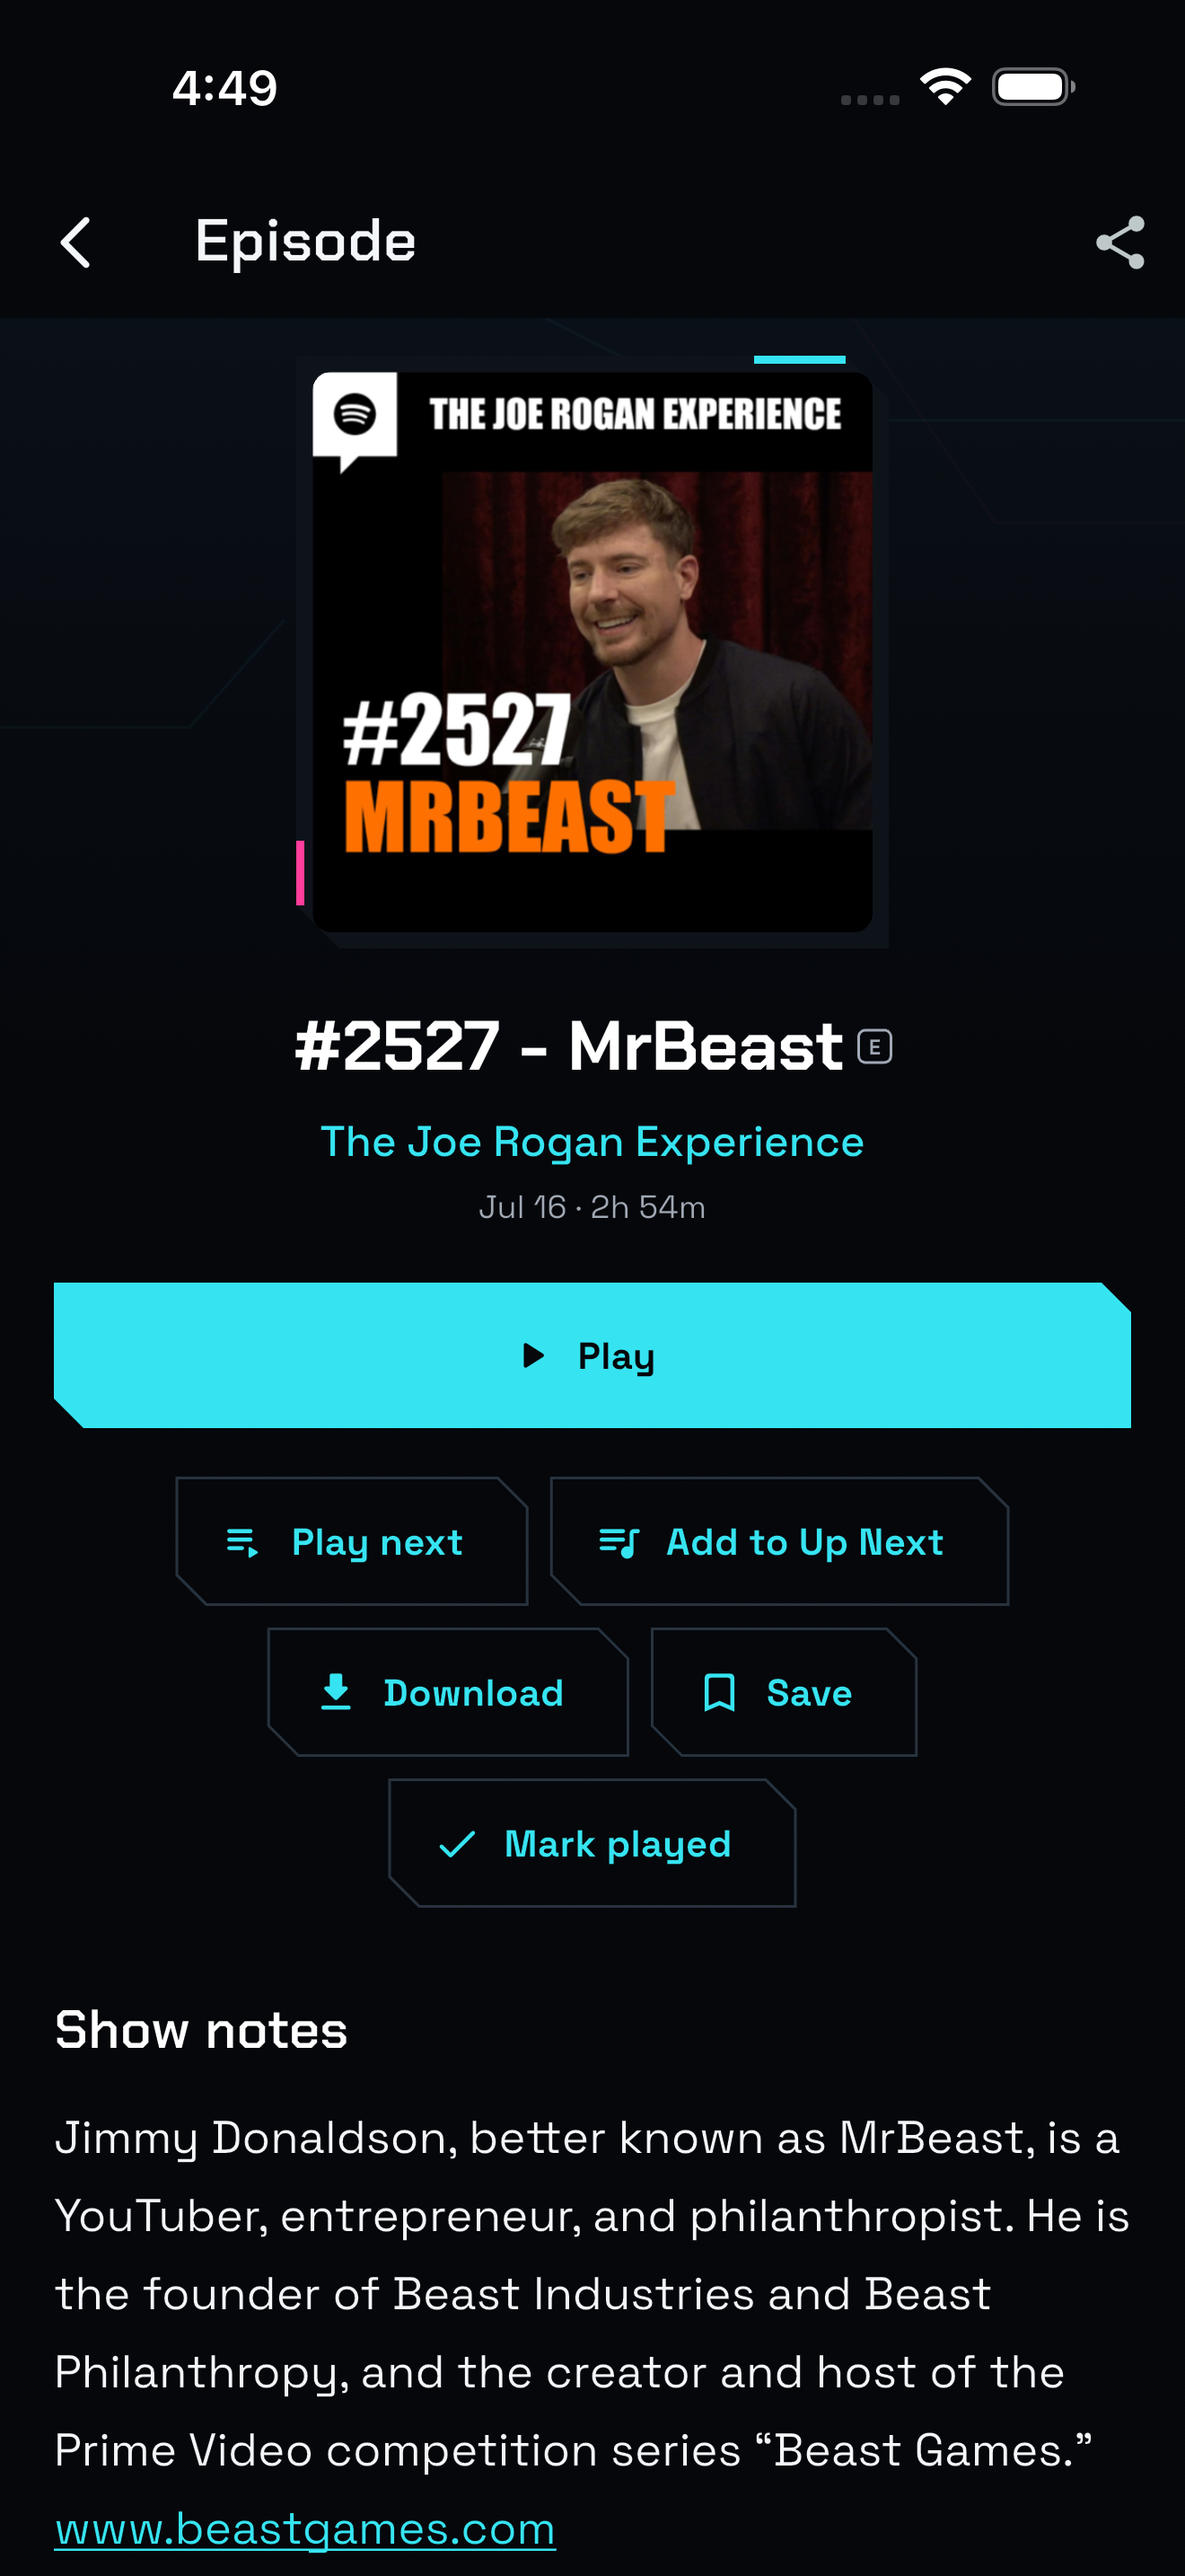
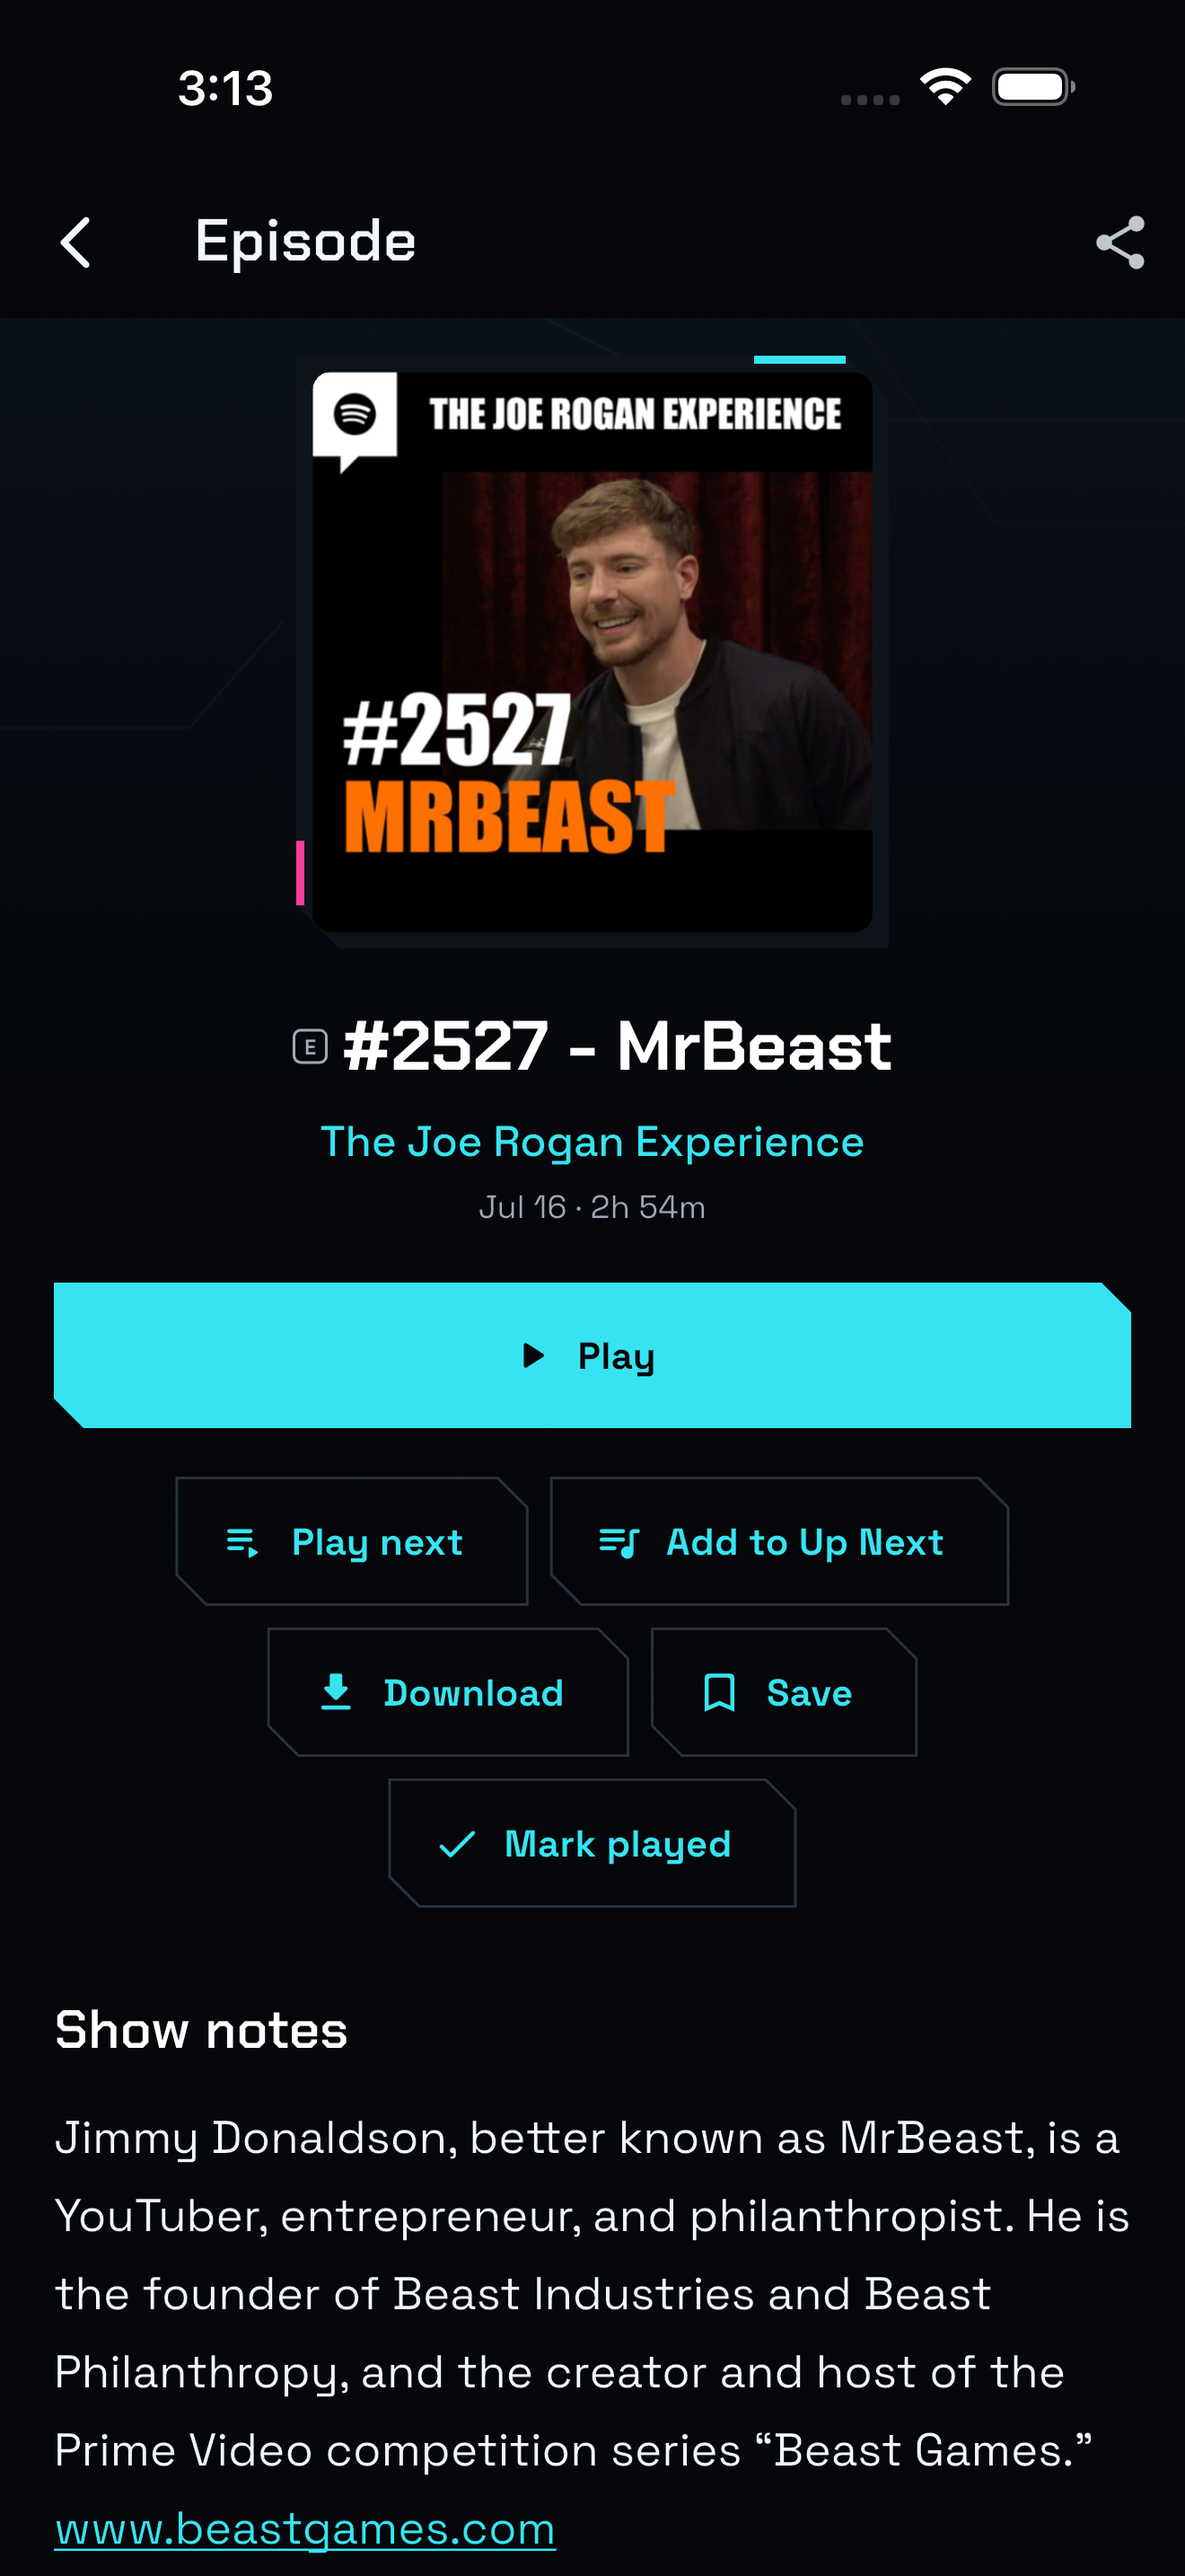
chore: prepare build 38

Changed region(s): [[0.2485, 0.3724, 0.7455, 0.4344], [0.1553, 0.031, 0.2174, 0.0621]]

diff --git a/README.md b/README.md
@@ -26,7 +26,7 @@ Desktop, web, CarPlay, Android Auto, and Android Automotive are intentionally ou
 
 ## Interface
 
-The home flow starts with a horizontally scrolling two-row shelf of recent episodes with direct Play and Resume controls, followed by compact collection shortcuts, subscriptions, feed actions, and unread entries. Four-button collections divide the available width evenly, with longer labels wrapping inside their cell. Section-level See all actions open the complete library or reader destination. Episodes distinguish New, In Progress, and Played at a glance. Shortcut badges always count the items in their destination: Podcasts and Sources count subscriptions, while Up Next, Downloads, and Saved count their own items. Badges hide at zero and never appear on actions such as Add Feed. The Library repeats the full collection navigation in one place. A persistent mini player keeps the current episode or video reachable without taking over navigation.
+The home flow starts with a horizontally scrolling two-row shelf of recent episodes with direct Play and Resume controls, followed by compact collection shortcuts, subscriptions, feed actions, and unread entries. Four-button collections divide the available width evenly, with longer labels wrapping inside their cell. Section-level See all actions open the complete library or reader destination. Episodes distinguish New, In Progress, and Played at a glance. Number badges are limited to Up Next and Sources or Feeds, show the exact destination count, and hide at zero. The Library repeats the full collection navigation in one place. A persistent mini player keeps the current episode or video reachable without taking over navigation.
 
 The visual system uses clipped control geometry, functional state rails, and a sparse signal-line backdrop instead of decorating every content row. Cyan identifies listening actions, magenta identifies feed actions, and acid green is reserved for active playback. Content lists remain continuous and low-chrome. Navigation uses standard platform behavior so playback, Picture in Picture, article reading, and in-place controls remain stable. Display typography is limited to page and section hierarchy; reading and metadata use the more neutral text face. Controls reflow at accessibility text sizes rather than shrinking labels or touch targets.
 
@@ -99,4 +99,4 @@ The repository publishes these documents from `main/docs` through GitHub Pages.
 
 ## Release
 
-Use the [release checklist](store/RELEASE.md), [store metadata](store/metadata.md), [App Review notes](store/app_review_notes.md), and [TestFlight notes](store/testflight_notes.md). The release workflow and screenshot-capture tooling are in `store/apple/` and `tool/maestro/`; private signing-key material remains outside the repository. The checked-in screenshot set was verified against the current visual system on July 26, 2026, with Home regenerated for the current episode shelf.
+Use the [release checklist](store/RELEASE.md), [store metadata](store/metadata.md), [App Review notes](store/app_review_notes.md), and [TestFlight notes](store/testflight_notes.md). The release workflow and screenshot-capture tooling are in `store/apple/` and `tool/maestro/`; private signing-key material remains outside the repository. The checked-in screenshot set was verified against the current visual system on July 28, 2026.

diff --git a/store/metadata.md b/store/metadata.md
@@ -7,7 +7,7 @@
 - Apple ID: 6792352845
 - Bundle ID: com.parmscript.trickle
 - Version: 1.0.0
-- Build: 37
+- Build: 38
 
 ## Name
 
@@ -58,7 +58,7 @@ Both pages are published from `main/docs` in the public trickle repository. Veri
 
 ## Screenshots
 
-Five 1320×2868 iPhone screenshots were verified against the current visual system on July 26, 2026. Home was regenerated for the current direct-play episode shelf. Use `tool/maestro/capture_store_screenshots.yaml` after preparing its asserted podcast and feed data whenever the interface changes, then upload the images in this order:
+Five 1320×2868 iPhone screenshots were verified against the current visual system on July 28, 2026. Use `tool/maestro/capture_store_screenshots.yaml` after preparing its asserted podcast and feed data whenever the interface changes, then upload the images in this order:
 
 1. Home
 2. Podcast
@@ -79,7 +79,7 @@ Listen to podcasts and read RSS, Atom, and JSON feeds in one fast, focused app t
 
 Follow Nostr profiles from an npub or nprofile address. trickle verifies events, shows the profile's own posts without replies or reposts, respects content warnings, renders Markdown, and supports attached images, native audio, and direct video.
 
-Browse recent podcast episodes in a compact two-row shelf with direct Play and Resume controls, then move into Up Next, downloads, saved items, podcast subscriptions, and feed sources. Subscription counts stay attached to their exact destinations, and podcast details remain visible throughout subscribe and unsubscribe actions.
+Browse recent podcast episodes in a compact two-row shelf with direct Play and Resume controls, then move into Up Next, downloads, saved items, podcast subscriptions, and feed sources. Only Up Next and Sources or Feeds carry number badges, with exact counts that hide at zero. Podcast details remain visible throughout subscribe and unsubscribe actions.
 
 The Feeds collection now includes a consistent See all action that opens the complete reader.
 
@@ -87,7 +87,7 @@ Four-button Home collections now use even spacing, and longer actions such as Ad
 
 Navigation now uses standard platform behavior without experimental visual effects.
 
-Podcast episodes now show distinct New, In Progress, and Played states. Partial listening displays saved progress and Resume throughout episode lists, while the Podcasts shortcut mirrors Sources with a subscription-count badge.
+Podcast episodes now show distinct New, In Progress, and Played states. Partial listening displays saved progress and Resume throughout episode lists. Explicit episodes use a compact leading marker that stays aligned when titles wrap or truncate.
 
 One-line and two-line collection shortcuts now keep identical icon, label, and touch-target alignment.
 

diff --git a/store/testflight_notes.md b/store/testflight_notes.md
@@ -5,13 +5,14 @@ Please test the combined podcast and feed flow:
 - Check the cyberpunk visual hierarchy; rows should stay aligned and readable without unnecessary boxes or dividers
 - Cold-launch trickle, open Library, Podcasts, Feeds, Search, or Settings, and open podcast, feed, and episode details; startup and navigation should use standard platform behavior without persistent lines, flashing, duplicate controls, or delayed interaction
 - On Home, play and resume episodes directly from the two-row shelf; verify its cards reflow at large text, four-button collections are evenly spaced, Add YouTube is fully visible, and Feeds See all opens the reader
-- Verify badge rules: Podcasts and Sources count subscriptions; other collection shortcuts count their own items; zero counts and Add actions show no badge
+- Verify badge rules: only Up Next and Sources or Feeds show number badges; they display exact counts and hide at zero
 - At the largest system text size, verify controls, shortcuts, the mini player, and tab navigation reflow without clipping or overlap
 - With a large library, scroll primary lists during refresh or queue automation; they should remain responsive
 - Search for multiple podcasts and subscribe to more than one; only the tapped row should show progress, and the rest of the results should remain usable
 - Type a lowercase podcast query, then allow autocorrect or capitalization to change only its letter case; results must remain visible without a new loading flash
 - Open a podcast result and verify its description, art, dates, durations, and summaries appear before subscription and after unsubscribing
 - Partially play an episode; verify lists change from New to In Progress, show saved progress and Resume, then change to Played after completion
+- Compare explicit episodes with one-line and wrapped titles; the E marker should remain immediately before the first title line
 - Verify a failed audio source shows a clear message and Retry action; retry after restoring the network
 - Add episodes to Up Next, reorder the queue, and verify it survives relaunch
 - Download an episode, use it offline, and test automatic cleanup after playback

diff --git a/store/RELEASE.md b/store/RELEASE.md
@@ -83,7 +83,7 @@ Apple has required [Xcode 26 or later with the iOS 26 SDK or later since April 2
 
 The application includes its privacy manifest, background-audio configuration, background-refresh identifier, encryption declaration, and 1024-pixel icon. A final build phase removes the downloader SDK's generic Photo Library declaration because trickle stores audio only in app-private storage and does not use that optional SDK feature.
 
-The iOS target is iPhone-only. Five 1320×2868 iPhone captures verified against the current visual system on July 26, 2026 are in `store/apple/screenshots/`; Home was regenerated for the current direct-play episode shelf. The capture flow does not seed content: prepare a simulator with the podcast and feed data asserted by `tool/maestro/capture_store_screenshots.yaml`, then regenerate the images from the repository root with `maestro test tool/maestro/capture_store_screenshots.yaml`.
+The iOS target is iPhone-only. Five 1320×2868 iPhone captures verified against the current visual system on July 28, 2026 are in `store/apple/screenshots/`. The capture flow does not seed content: prepare a simulator with the podcast and feed data asserted by `tool/maestro/capture_store_screenshots.yaml`, then regenerate the images from the repository root with `maestro test tool/maestro/capture_store_screenshots.yaml`.
 
 In App Store Connect, use `store/metadata.md` and `store/app_review_notes.md`, answer App Privacy as no data collected by the developer, and publish that response before submitting a version. Provide the verified hosted privacy and support URLs, complete age-rating and content-rights answers, attach the current screenshots, provide review contact details, and test the uploaded build using `store/testflight_notes.md`.
 
